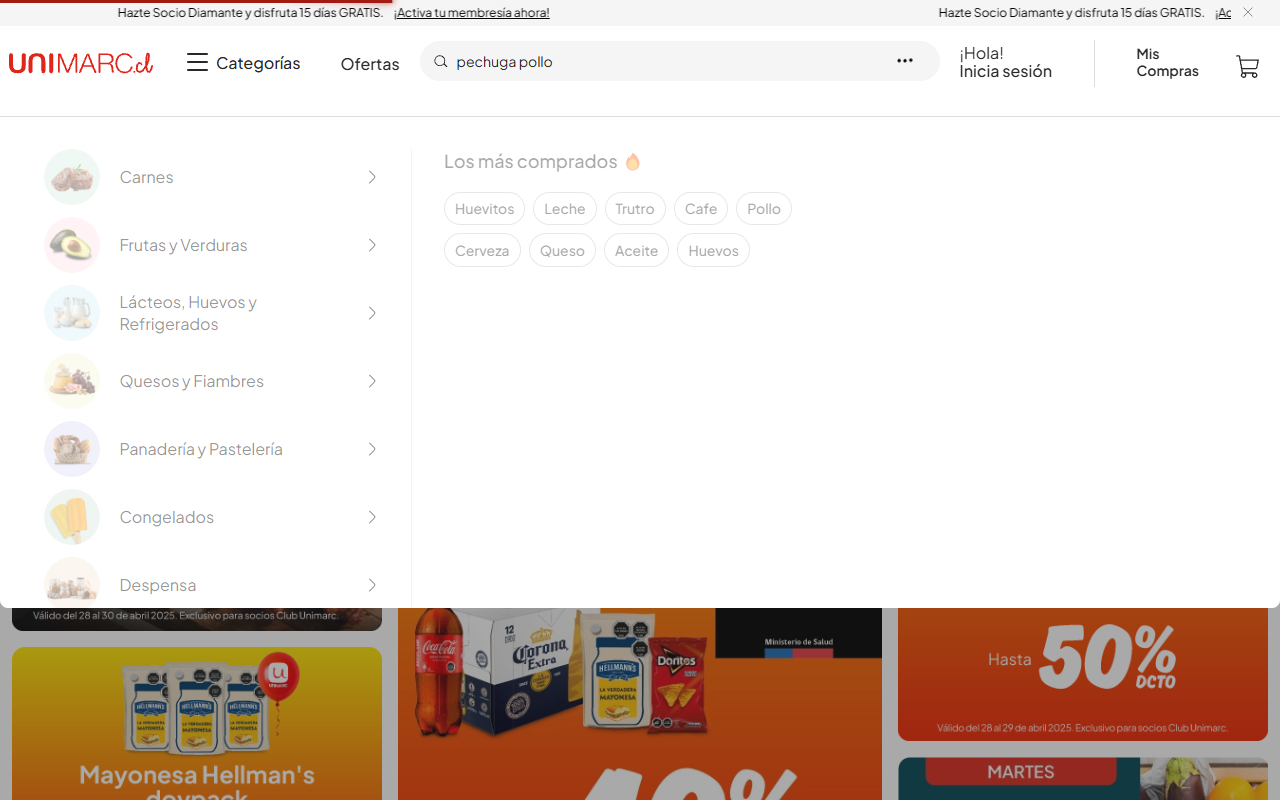
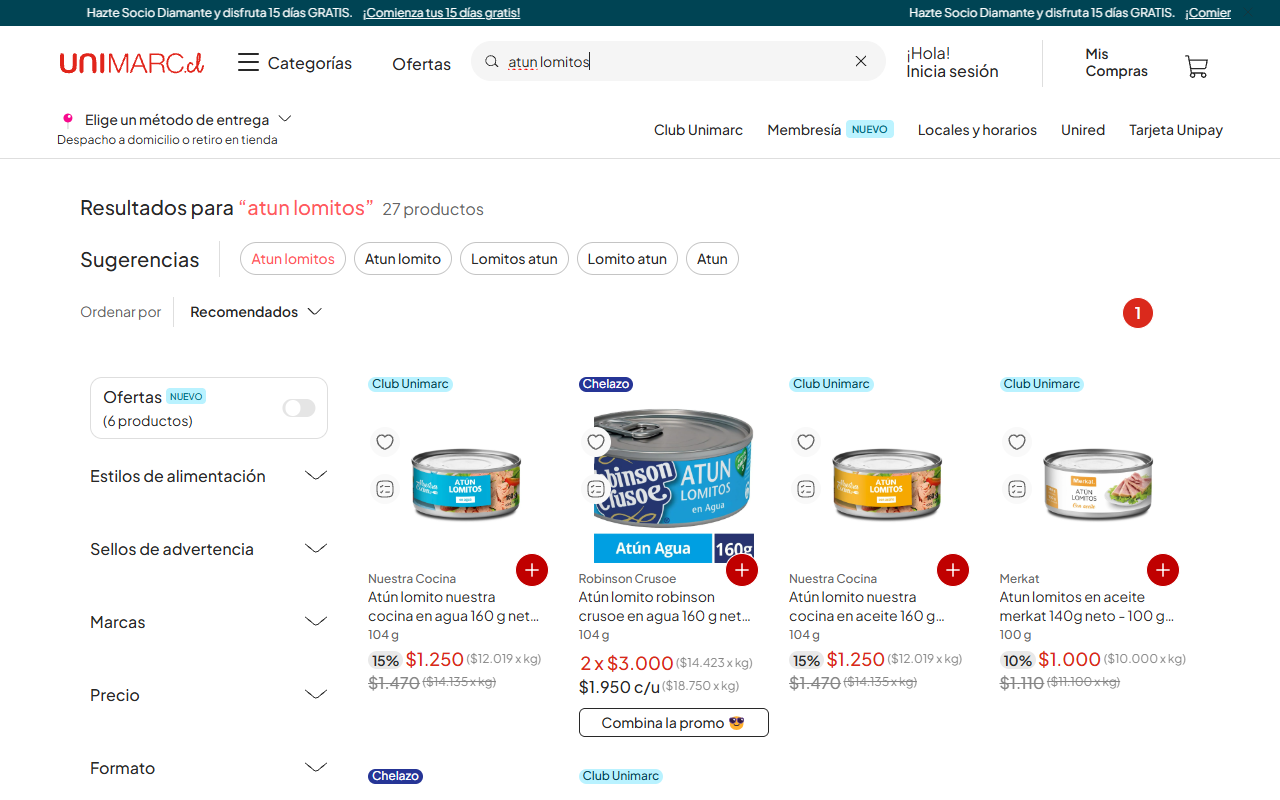
Added Unimarc Scrapping

diff --git a/unimarc.js b/unimarc.js
@@ -2,28 +2,53 @@ import puppeteer from 'puppeteer'
 
 async function handleDynamicWebPage() {
     const browser = await puppeteer.launch({
-        headless: false,
+        headless: 'new',
     })
     const page = await browser.newPage()
     
     await page.setViewport({ width: 1280, height: 800 })    
     try {
         await page.goto('https://www.unimarc.cl/', { waitUntil: 'networkidle2' })        
-        await page.type('#search-header__input', 'pechuga pollo')
-        await new Promise(resolve => setTimeout(resolve, 2000))
+        await page.type('#search-header__input', 'atun lomitos')
+        await new Promise(resolve => setTimeout(resolve, 12000))
         await page.screenshot({path: 'example.png'})
         const productData = await page.evaluate(() => {
-            const name = document.querySelector('p[class*="nameProduct"]').innerText.trim()
-            const brand = document.querySelector('p[class*="brandText"]')?.innerText.trim()        
-            const imageSrc = document.querySelector('img[class*="defaultImgStyle"]')?.src        
-            const productLink = document.querySelector(`a[class*="Link_link"]`)?.href
+            const products = Array.from(document.querySelectorAll('.ab__shelves'))
+            return products.map(product => {
+              const name = product.querySelector('.Shelf_nameProduct__CXI5M')?.textContent.trim() || 'Sin nombre'
+              const brand = product.querySelector('.Shelf_brandText__sGfsS')?.textContent.trim() || 'Sin marca'
+              const currentPriceElement = product.querySelector('[id^="listPrice__offerPrice--discountprice"]') || 
+                                        product.querySelector('.Text_text--xl__l05SR')
+              const currentPrice = currentPriceElement?.textContent.trim().replace(/\D/g, '') || '0'
+              const originalPriceElement = product.querySelector('[id^="listPrice__offerPrice--listprice"]') || 
+                                          product.querySelector('.Text_text--line-through__1V_2e')
+              const originalPrice = originalPriceElement?.textContent.trim().replace(/\D/g, '') || currentPrice
+              const discountElement = product.querySelector('.OfferLabel_offerLabel__WrBKB') || 
+                                     product.querySelector('[class*="discount"]')
+              const discount = discountElement?.textContent.trim() || '0%'
+              const pricePerUnitElement = product.querySelector('.ListPrice_listPrice__mdFUB p')
+              const pricePerUnit = pricePerUnitElement?.textContent.trim() || ''              
+              const promotionElement = product.querySelector('[id^="listPrice__membershipDiscountPrice"]')
+              const promotion = promotionElement?.textContent.trim() || ''
+              const imageUrl = product.querySelector('img[src*=".jpg"], img[src*=".png"]')?.src || ''
+              const productUrl = product.querySelector('a[href^="/product/"]')?.href || ''
         
-            return {
-              name,
-              brand,
-              imageSrc,
-              productLink
-            }
+              return {
+                name,
+                brand,
+                currentPrice: parseInt(currentPrice),
+                originalPrice: parseInt(originalPrice),
+                discount,
+                pricePerUnit,
+                promotion,
+                imageUrl,
+                productUrl: productUrl.includes('http') ? productUrl : `https://www.unimarc.cl${productUrl}`,
+                flag: product.querySelector('.Chip_chipMemberchip__Y23ai')?.textContent.trim() || '',
+                rating: 'Sin calificación',
+                supermarket: 'Unimarc',
+                timestamp: new Date().toISOString(),
+              }
+            })
           })
         
           console.log(productData)

diff --git a/index.html b/index.html
@@ -4,6 +4,7 @@
     <meta charset="UTF-8">
     <meta name="viewport" content="width=device-width, initial-scale=1.0">
     <title>PriceHunter - Compara precios en tiempo real</title>
+    <link rel="icon" href="favicon.svg" type="image/x-icon">
     <link rel="stylesheet" href="https://cdnjs.cloudflare.com/ajax/libs/font-awesome/6.0.0/css/all.min.css">
     <link rel="stylesheet" href="styles.css">
 </head>
@@ -25,7 +26,9 @@
     <section class="download-section" id="download">
         <div class="download-grid">
             <div class="qr-container">
-                <div class="qr-code"></div>
+                <div class="qr-code">
+                    <img src="qr.png" alt="code qr">
+                </div>
                 <p>Escanear para descargar</p>
             </div>
             
@@ -96,11 +99,11 @@
                 <div class="user-info">
                     <img src="https://i.pravatar.cc/100?img=3" alt="Usuario" class="user-avatar">
                     <div>
-                        <h4>Ana López</h4>
-                        <small>Chef Profesional</small>
+                        <h4>Elizabeth Guerra</h4>
+                        <small>Nutricionista</small>
                     </div>
                 </div>
-                <p>"Ahora puedo comparar marcas premium fácilmente. ¡Mi herramienta esencial!"</p>
+                <p>"Me quiero comer al que programo esto 🥰. Esta bien Guapo."</p>
             </div>
         </div>
     </section>
